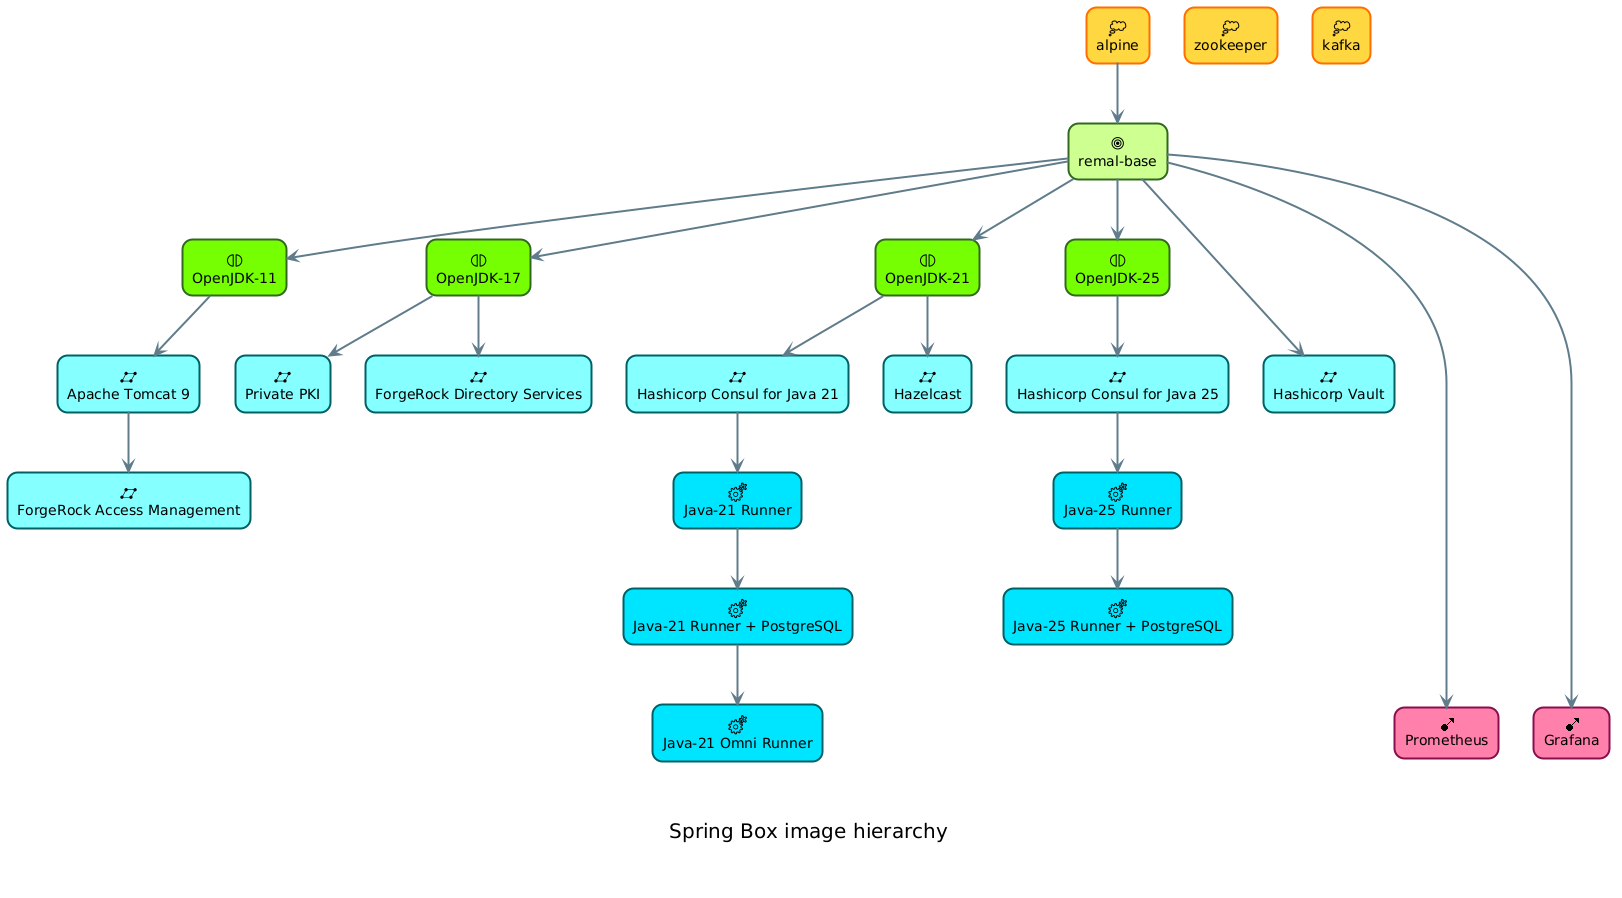
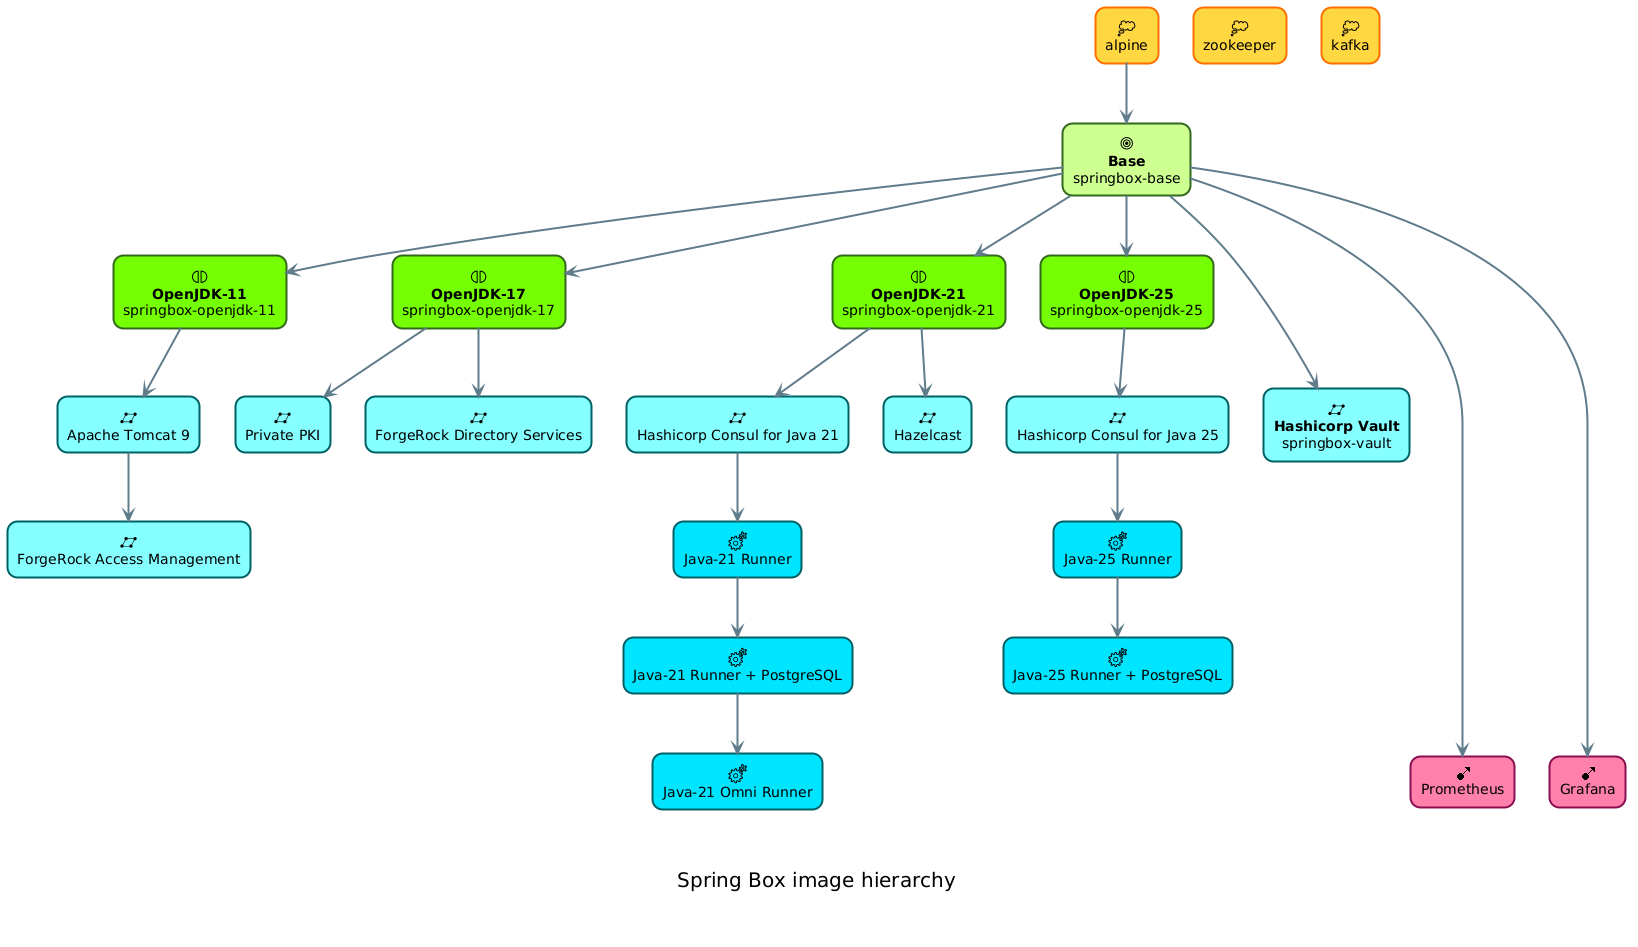
update Spring Box documentation

diff --git a/docs/_pages/virtualization/docker/spring-box.md b/docs/_pages/virtualization/docker/spring-box.md
@@ -183,7 +183,7 @@ The following diagram illustrates the JVM memory structure and its corresponding
   - **/heap-dump:** Container to host, output. This is the place where the JVM outputs binary memory snapshots upon a critical failure.
 
 
-### 7) 
+### 7) Java runtime with PostgreSQL containers
 
 
 ### 6) Private Certificate Authority (PKI)
